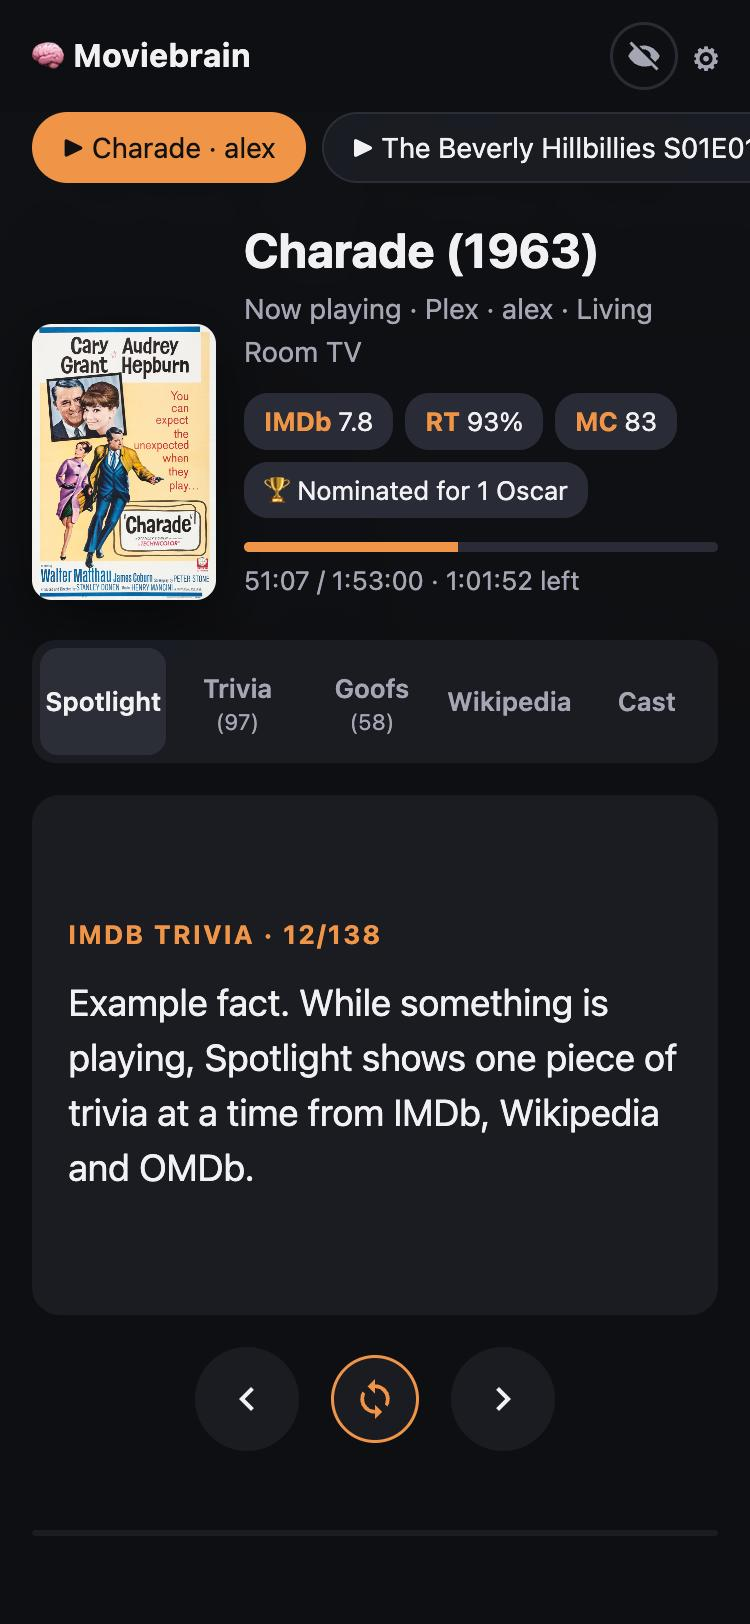
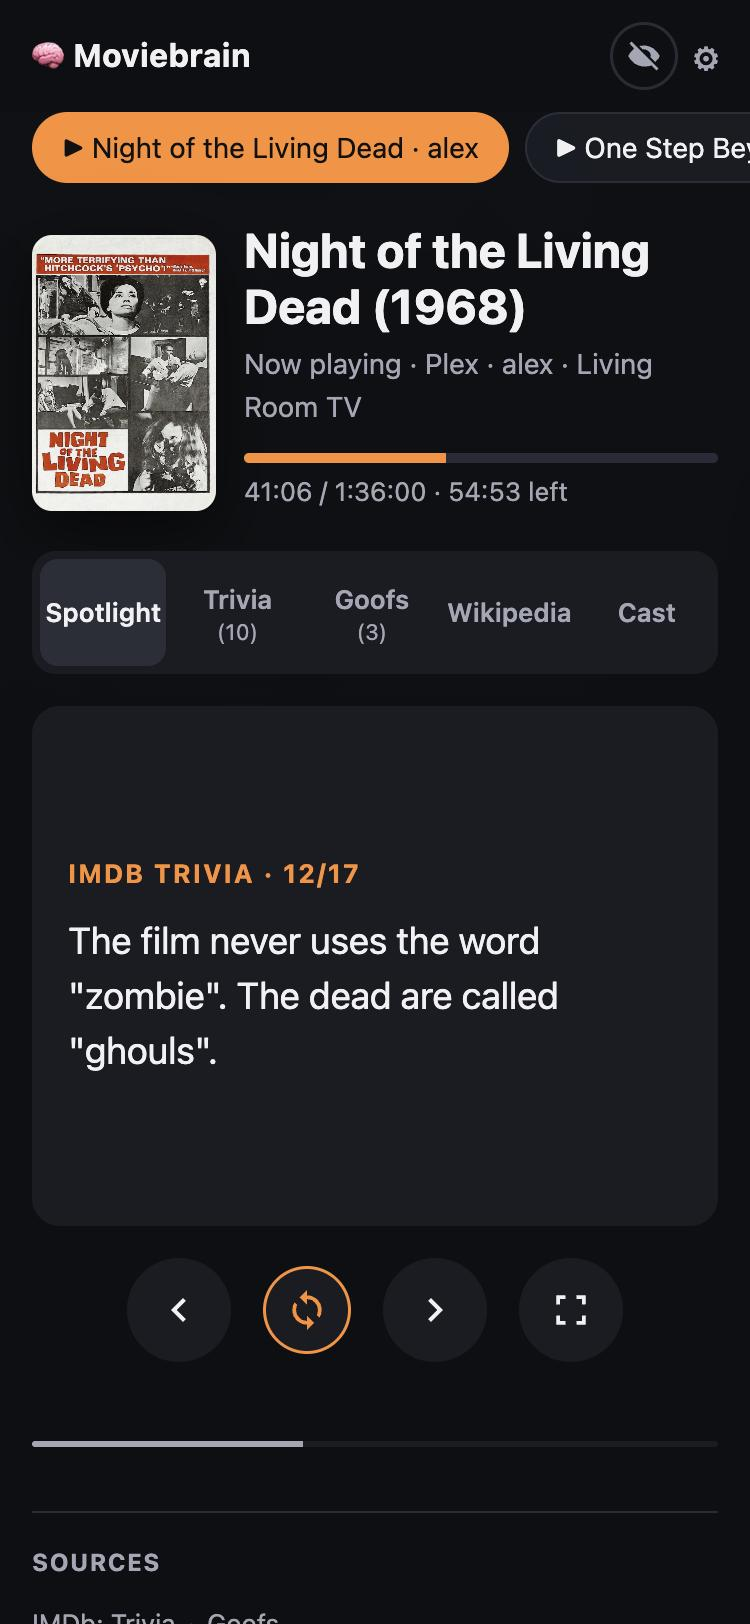
Update screenshots to Night of the Living Dead and One Step Beyond
Taken from the live demo: public-domain titles and artwork, text
written for the demo.

diff --git a/README.md b/README.md
@@ -6,7 +6,7 @@ Trivia for whatever's playing on **Plex** or **Jellyfin**: IMDb trivia and goofs
 
 <p align="center">
   <img src="docs/screenshots/phone-spotlight.jpg" width="250" alt="Spotlight: one fact at a time, with poster and ratings">
-  <img src="docs/screenshots/phone-tv.jpg" width="250" alt="A TV episode with the Episode/Series toggle">
+  <img src="docs/screenshots/phone-tv.jpg" width="250" alt="One Step Beyond, a TV episode, with the Episode/Series toggle">
   <img src="docs/screenshots/phone-spoilers.jpg" width="250" alt="Trivia list with a blurred spoiler">
 </p>
 <p align="center">
@@ -14,7 +14,7 @@ Trivia for whatever's playing on **Plex** or **Jellyfin**: IMDb trivia and goofs
   <img src="docs/screenshots/phone-person.jpg" width="250" alt="An actor's other titles in your library">
   <img src="docs/screenshots/settings-sources.jpg" width="250" alt="Settings: sources">
 </p>
-<p align="center"><sub>Screenshots: public-domain film and poster, made-up users, placeholder fact text.</sub></p>
+<p align="center"><sub>Screenshots from the <a href="https://infestacool.github.io/moviebrain/">demo</a>: public-domain titles, made-up users.</sub></p>
 
 ## Features
 
